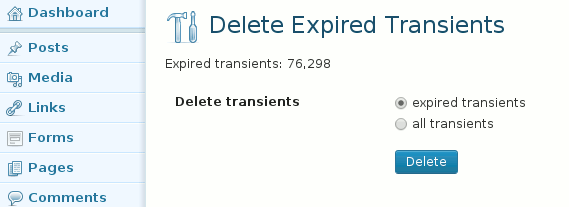
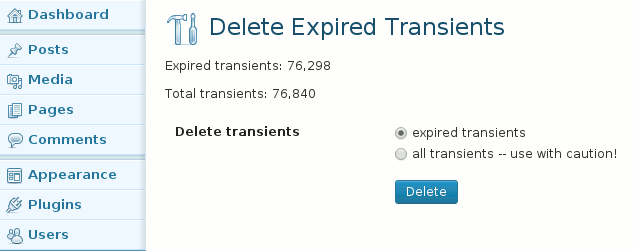
1.1.0: added NextGEN Gallery 2.0.x "transients"; use LIKE instead of REGEXP for performance

Changed region(s): [[0.0, 0.0, 0.8963, 1.0], [0.5975, 0.4638, 0.9859, 0.6377], [0.5975, 0.6957, 0.8067, 0.8406]]

diff --git a/delete-expired-transients.php b/delete-expired-transients.php
@@ -3,7 +3,7 @@
 Plugin Name: Delete Expired Transients
 Plugin URI: http://snippets.webaware.com.au/wordpress-plugins/delete-expired-transients/
 Description: delete old, expired transients from WordPress wp_options table
-Version: 1.0.0
+Version: 1.1.0
 Author: WebAware
 Author URI: http://www.webaware.com.au/
 Text Domain: delxtrans
@@ -75,7 +75,7 @@ class DeleteExpiredTransients {
 	* admin menu items
 	*/
 	public static function adminMenu() {
-		$title = __('Delete Expired Transients', 'delxtrans');
+		$title = __('Delete Transients', 'delxtrans');
 		add_management_page($title, $title, 'manage_options', 'delxtrans', array(__CLASS__, 'toolsDelete'));
 	}
 
@@ -110,29 +110,40 @@ class DeleteExpiredTransients {
 			}
 		}
 
-		$expiredCount = self::countExpiredTransients();
+		$counts = self::countTransients();
 
 		include DELXTRANS_PLUGIN_ROOT . 'views/admin-tools-page.php';
 	}
 
 	/**
-	* count the expired transients (including orphaned expirations)
+	* count the transients (including orphaned expirations)
 	* @return int
 	*/
-	public static function countExpiredTransients() {
+	public static function countTransients() {
 		global $wpdb;
 
-		// get current PHP time, offset by a minute to prevent clashes with other tasks
+		// get current PHP time, offset by a minute to avoid clashes with other tasks
 		$threshold = time() - 60;
 
+		// count transient expiration records, total and expired
+		$sql = "
+			select count(*) as `total`, count(case when option_value < '$threshold' then 1 end) as `expired`
+			from {$wpdb->options}
+			where (option_name like '\_transient\_timeout\_%' or option_name like '\_site\_transient\_timeout\_%')
+		";
+		$counts = $wpdb->get_row($sql);
+
+		// count never-expire transients
 		$sql = "
 			select count(*)
 			from {$wpdb->options}
-			where option_name regexp '^(_site)?_transient_timeout_.*'
-			and option_value < '$threshold';
+			where (option_name like '\_transient\_%' or option_name like '\_site\_timeout\_%')
+			and option_name not like '%\_timeout\_%'
+			and autoload = 'yes'
 		";
+		$counts->never_expire = $wpdb->get_var($sql);
 
-		return $wpdb->get_var($sql);
+		return $counts;
 	}
 
 	/**
@@ -141,23 +152,28 @@ class DeleteExpiredTransients {
 	public static function clearExpiredTransients() {
 		global $wpdb;
 
-		// get current PHP time, offset by a minute to prevent clashes with other tasks
+		// get current PHP time, offset by a minute to avoid clashes with other tasks
 		$threshold = time() - 60;
 
 		// delete expired transients, using the paired timeout record to find them
 		$sql = "
 			delete from t1, t2
-			using {$wpdb->options} t1 join {$wpdb->options} t2
-			on t2.option_name = replace(t1.option_name, '_timeout', '')
-			where t1.option_name regexp '^(_site)?_transient_timeout_.*'
+			using {$wpdb->options} t1
+			join {$wpdb->options} t2 on t2.option_name = replace(t1.option_name, '_timeout', '')
+			where (t1.option_name like '\_transient\_timeout\_%' or t1.option_name like '\_site\_transient\_timeout\_%')
 			and t1.option_value < '$threshold';
 		";
 		$wpdb->query($sql);
 
-		// delete orphaned transient expirations
+		// delete orphaned transient expirations,
+		// and clean up any "third wheel" rows left lying around by NextGEN Gallery 2.0.x
 		$sql = "
 			delete from {$wpdb->options}
-			where option_name regexp '^(_site)?_transient_timeout_.*'
+			where (
+				option_name like '\_transient\_timeout\_%'
+				or option_name like '\_site\_transient\_timeout\_%'
+				or option_name like 'displayed\_galleries\_%'
+			)
 			and option_value < '$threshold';
 		";
 		$wpdb->query($sql);
@@ -170,9 +186,12 @@ class DeleteExpiredTransients {
 		global $wpdb;
 
 		// delete all transients
+		// including NextGEN Gallery 2.0.x display cache
 		$sql = "
 			delete from {$wpdb->options}
-			where option_name regexp '^(_site)?_transient_.*'
+			where option_name like '\_transient\_%'
+			or option_name like '\_site\_transient\_%'
+			or option_name like 'displayed\_galleries\_%'
 		";
 		$wpdb->query($sql);
 	}

diff --git a/views/admin-tools-page.php b/views/admin-tools-page.php
@@ -1,5 +1,5 @@
 <?php
-// Tools menu page
+// Tools menu page for plugin
 ?>
 
 <div class='wrap'>
@@ -18,9 +18,10 @@
 </div>
 <?php endif; ?>
 
-<p><?php printf(__('Expired transients: %s', 'delxtrans'), number_format_i18n($expiredCount)); ?></p>
+<p><?php printf(__('Expired transients: %s', 'delxtrans'), number_format_i18n($counts->expired)); ?></p>
+<p><?php printf(__('Total transients: %s', 'delxtrans'), number_format_i18n($counts->total + $counts->never_expire)); ?></p>
 
-<form action="<?php echo $_SERVER['SCRIPT_NAME']; ?>?page=delxtrans" method="post">
+<form action="<?php echo admin_url('tools.php'); ?>?page=delxtrans" method="post">
 
 	<table class="form-table">
 
